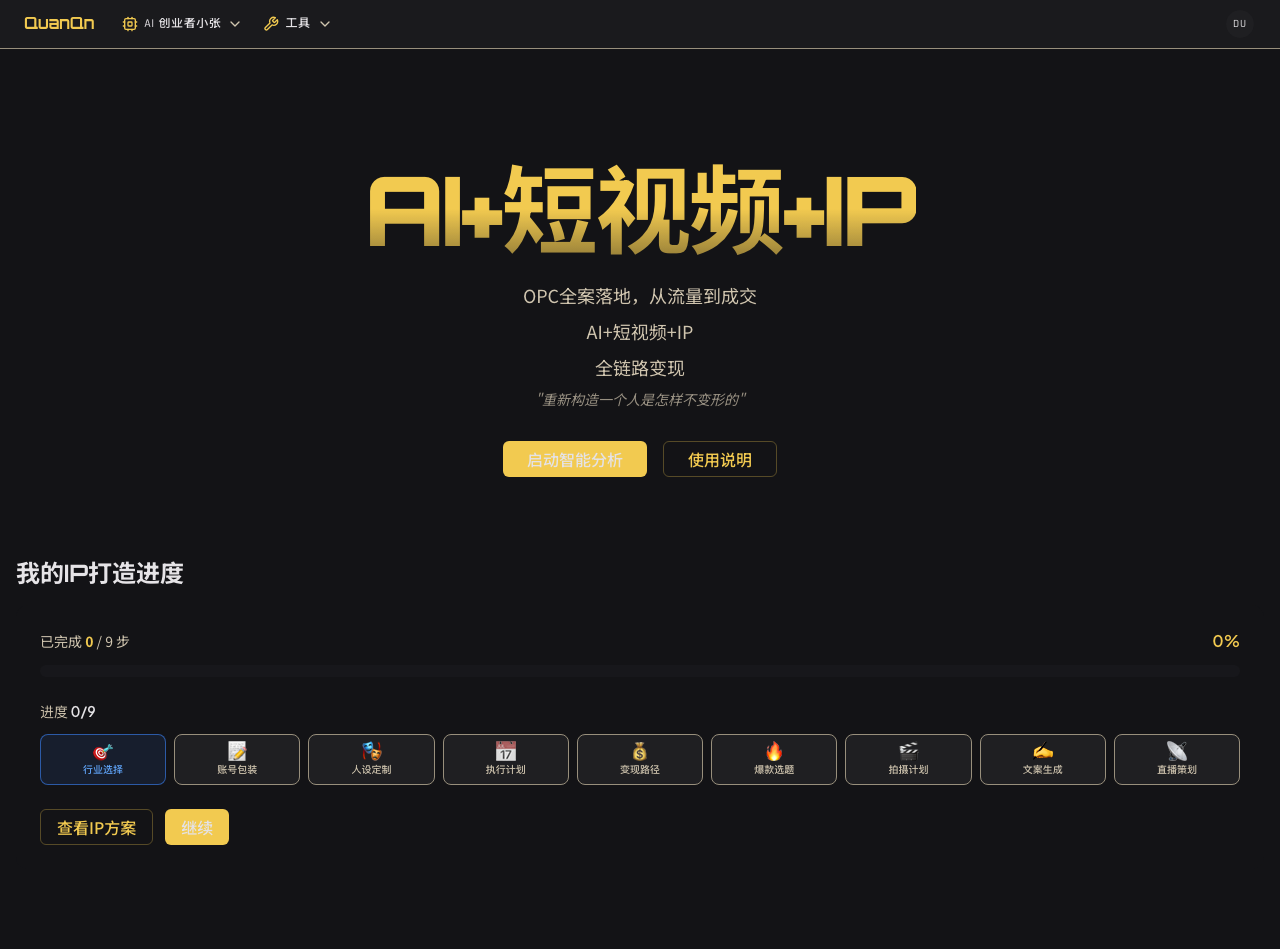
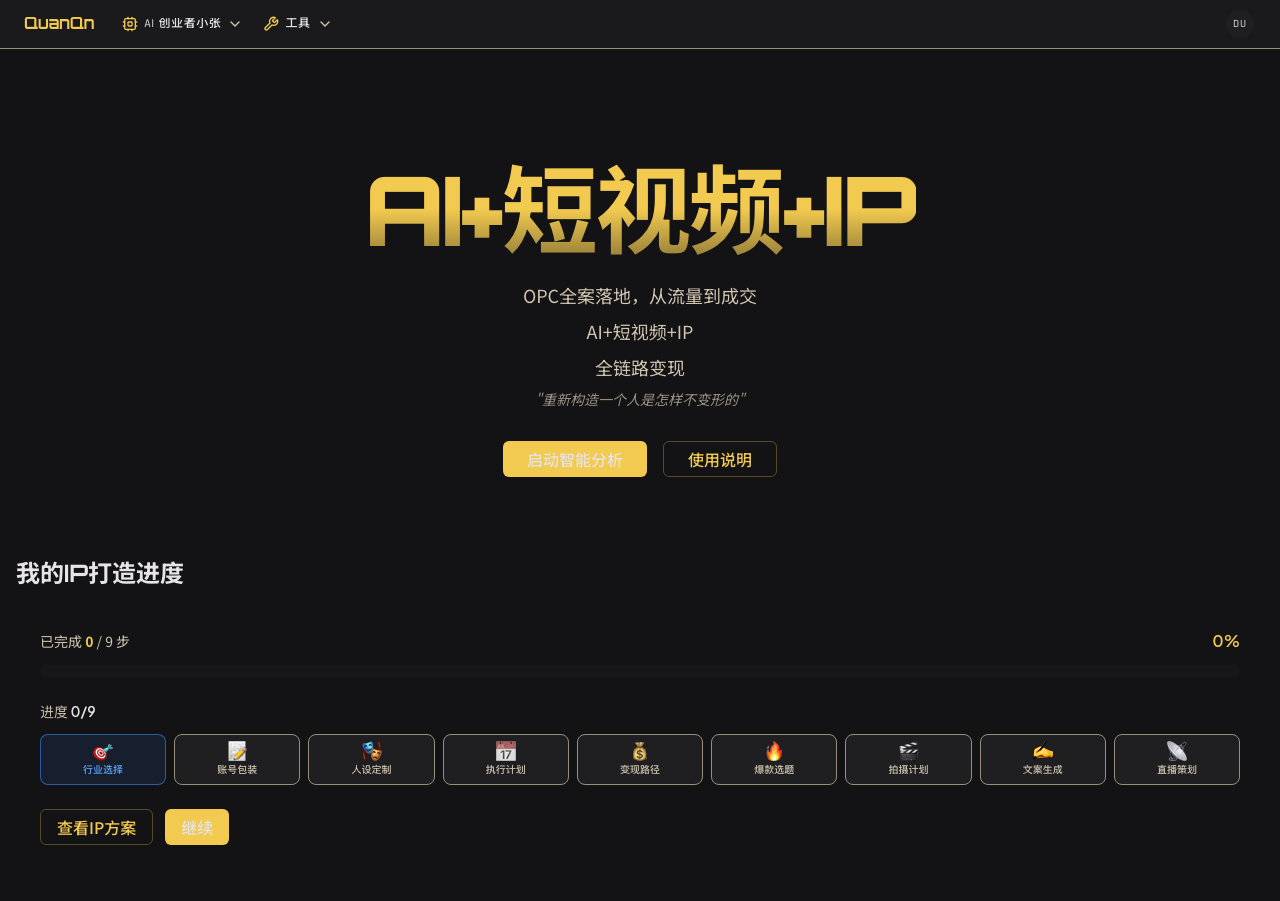
fix: [US-003] progress bar gradient violet (from-violet-600/400, not from-primary gold)

diff --git a/apps/web/src/pages/Home.tsx b/apps/web/src/pages/Home.tsx
@@ -61,7 +61,7 @@ function IpProgressSection() {
 
         <div className="w-full h-3 bg-muted/20 rounded-full overflow-hidden mb-6">
           <div
-            className="h-full bg-gradient-to-r from-primary to-primary/60 rounded-full transition-all"
+            className="h-full bg-gradient-to-r from-violet-600 to-violet-400 rounded-full transition-all"
             style={{ width: `${percent}%` }}
           />
         </div>